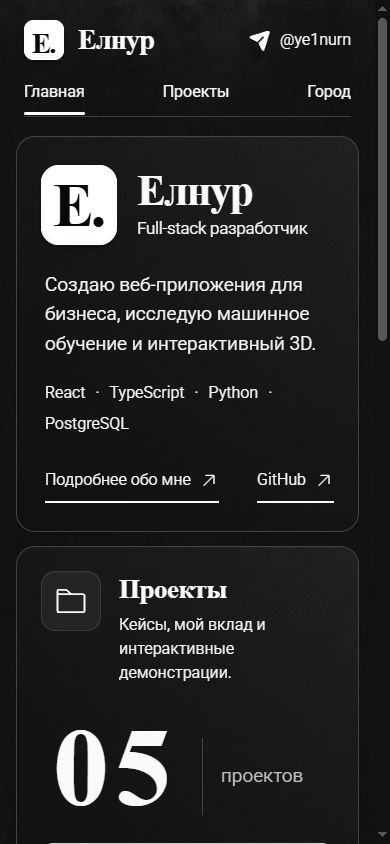
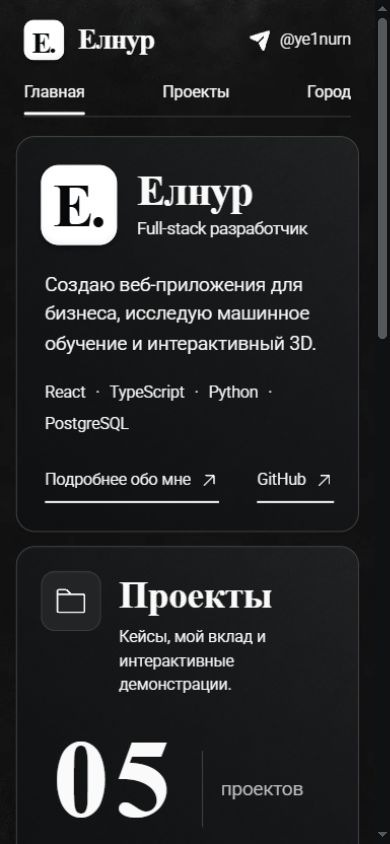
Preserve project heading hierarchy across screen sizes

diff --git a/city-demo/src/portfolio/home.css b/city-demo/src/portfolio/home.css
@@ -83,7 +83,7 @@
 .home-bio{font-size:22px}.home-stack{gap:0 14px;font-size:21px}.home-projects .home-section-heading{gap:24px}.home-projects h2{font-size:46px}
 .home-projects .home-section-heading p{font-size:16px;white-space:normal}.home-projects .home-icon{width:66px;height:66px}
 .home-project-count{margin-left:20px}.home-project-count strong{font-size:144px}.home-project-count span{font-size:21px}
-.home-tool-columns{gap:16px;margin-inline:0}.home-tool-columns>div+div{padding-left:24px}.home-tool-columns p{font-size:18px}.home-section-heading h2{font-size:30px}
+.home-tool-columns{gap:16px;margin-inline:0}.home-tool-columns>div+div{padding-left:24px}.home-tool-columns p{font-size:18px}.home-skills h2,.home-education h2{font-size:30px}
 .home-education ol{margin-left:73px}.home-education li{font-size:18px;padding-left:24px}.home-achievement{padding-inline:25px;gap:24px}
 .home-achievement h2{font-size:46px}.home-achievement p{font-size:16px}.home-achievement div>span{font-size:17px}
 .home-achievement>div{min-width:0}.home-achievement p{white-space:normal}
@@ -100,7 +100,7 @@
 .home-projects{display:grid;grid-template-columns:1fr auto;gap:24px}.home-projects .home-project-count{grid-column:2;grid-row:1/3;margin:0;gap:20px}
 .home-project-link{grid-column:1;font-size:18px!important}.home-projects h2{font-size:42px}.home-projects .home-section-heading{gap:24px;align-items:center}
 .home-projects .home-section-heading p{font-size:16px;white-space:normal}.home-project-count strong{font-size:120px}.home-project-count span{font-size:18px;padding-left:18px}
-.home-section-heading{gap:20px}.home-section-heading h2{font-size:28px}.home-tool-columns{gap:12px;margin-inline:0}.home-tool-columns>div+div{padding-left:12px}
+.home-section-heading{gap:20px}.home-skills h2,.home-education h2{font-size:28px}.home-tool-columns{gap:12px;margin-inline:0}.home-tool-columns>div+div{padding-left:12px}
 .home-tool-columns h3{font-size:16px}.home-tool-columns p{font-size:14px;white-space:normal}.home-education .home-section-heading{gap:20px}
 .home-education ol{margin:18px 0 14px 26px}.home-education li{font-size:18px;padding-left:24px}.home-contact-primary{flex:1}.home-email{font-size:16px!important}
 }
@@ -120,7 +120,7 @@
 .home-links svg{width:20px}.home-projects .home-section-heading{align-items:flex-start;gap:18px}.home-projects h2{font-size:38px}
 .home-projects .home-section-heading p{font-size:16px;line-height:1.5}.home-projects .home-icon{width:60px;height:60px;border-radius:14px}
 .home-project-link{font-size:18px!important;min-height:56px;border-radius:12px;padding-inline:22px!important}
-.home-section-heading{gap:20px}.home-section-heading h2{font-size:27px}.home-icon{width:52px;height:52px;border-radius:12px}
+.home-section-heading{gap:20px}.home-skills h2,.home-education h2{font-size:27px}.home-icon{width:52px;height:52px;border-radius:12px}
 .home-icon svg{width:29px;height:29px}.home-projects .home-icon svg{width:36px;height:36px}.home-tool-columns{margin-top:24px}
 .home-tool-columns h3{font-size:16px}.home-tool-columns p{font-size:15px;line-height:1.75}
 .home-education li{display:grid;grid-template-columns:1fr;gap:3px;font-size:19px;padding-block:8px}
@@ -136,7 +136,7 @@
 }
 @media(max-width:360px){
 .home-card{padding:21px}.home-links{gap:8px}.home-links>*{font-size:14px!important}.home-role{font-size:15px}
-.home-tool-columns h3{font-size:14px}.home-tool-columns p{font-size:13px}.home-contact h2,.home-section-heading h2{font-size:24px}
+.home-tool-columns h3{font-size:14px}.home-tool-columns p{font-size:13px}.home-contact h2,.home-skills h2,.home-education h2{font-size:24px}
 .home-education .home-section-heading{gap:12px}.home-icon{width:44px;height:44px}.home-projects .home-section-heading{gap:14px}
 .home-projects .home-icon{width:48px;height:48px}.home-projects h2{font-size:34px}.home-email{font-size:13px!important}.home-footer{font-size:10px}
 .home-projects .home-project-count{gap:14px;padding-inline:8px}.home-project-count strong{font-size:96px;letter-spacing:2px}.home-project-count span{font-size:16px;padding-left:14px}

diff --git a/city-demo/design-qa.md b/city-demo/design-qa.md
@@ -10,7 +10,8 @@ Implementation: `qa/home-graphite/desktop.jpg`, route `?view=home`, top of page,
 2. **[P2, resolved] Grid and typography.** Earlier 12-column layout made the left cards too wide and the bottom award too large. Three shared tracks now measure 547:245:587 with 14 px horizontal / 16 px vertical gaps. At the reference viewport top rows measure 804.84/586.16 px, 424/248 px high; lower cards measure 546.20/844.80 px, 174 px high. Inter was replaced on home by locally packaged Roboto with Times New Roman display type. Corrected the project CTA to left alignment, separated stack items, restored the footer date and moved the full-resume action into About.
 3. **[P2, resolved] First pass overflow and lighting.** `compare-iteration-1.jpg` / `typography-1.jpg` show the first revised stage. Lowered excessive panel grain/brightness using the generated raster over a neutral base, refined the name/role and numeral metrics, reduced the project subtitle to fit its measured text box. Removed unwanted desktop scrollbar caused by natural card heights.
 4. **[P2, resolved] Responsive widths.** Browser inspection found a count overflow at 320 px, a long education row at 760 px and an unwrapped achievement description at 1024 px. Adjusted the small count, timeline typography and award wrapping. Rechecked these exact widths: no overflowing cards, text, or controls.
-5. Final evidence: `comparison-final.jpg` (reference left, implementation right); focused `comparison-intro.jpg`, `comparison-projects.jpg`, `comparison-details.jpg`. All were opened and inspected after the fixes. `mobile-top.jpg` and `mobile-bottom.jpg` record the 390 × 844 layout.
+5. **[P2, resolved] Responsive heading hierarchy.** A final laptop check exposed a generic section heading rule overriding the Projects title below 1380 px. Scoped the rule to Skills/Education and checked the final title sizes: 46 px at 1254, 42 px at 900, 38 px at 390 and 34 px at 320. All four rendered without overflow. `laptop.jpg` and refreshed `mobile-top.jpg` record the correction. Tests (124/124) and production build were rerun successfully after this change.
+6. Final evidence: `comparison-final.jpg` (reference left, implementation right); focused `comparison-intro.jpg`, `comparison-projects.jpg`, `comparison-details.jpg`. All were opened and inspected after the fixes. `mobile-top.jpg` and `mobile-bottom.jpg` record the 390 × 844 layout.
 
 ## Required fidelity surfaces
 

diff --git a/city-demo/qa/home-graphite/README.md b/city-demo/qa/home-graphite/README.md
@@ -10,7 +10,8 @@ Implementation: `qa/home-graphite/desktop.jpg`, route `?view=home`, top of page,
 2. **[P2, resolved] Grid and typography.** Earlier 12-column layout made the left cards too wide and the bottom award too large. Three shared tracks now measure 547:245:587 with 14 px horizontal / 16 px vertical gaps. At the reference viewport top rows measure 804.84/586.16 px, 424/248 px high; lower cards measure 546.20/844.80 px, 174 px high. Inter was replaced on home by locally packaged Roboto with Times New Roman display type. Corrected the project CTA to left alignment, separated stack items, restored the footer date and moved the full-resume action into About.
 3. **[P2, resolved] First pass overflow and lighting.** `compare-iteration-1.jpg` / `typography-1.jpg` show the first revised stage. Lowered excessive panel grain/brightness using the generated raster over a neutral base, refined the name/role and numeral metrics, reduced the project subtitle to fit its measured text box. Removed unwanted desktop scrollbar caused by natural card heights.
 4. **[P2, resolved] Responsive widths.** Browser inspection found a count overflow at 320 px, a long education row at 760 px and an unwrapped achievement description at 1024 px. Adjusted the small count, timeline typography and award wrapping. Rechecked these exact widths: no overflowing cards, text, or controls.
-5. Final evidence: `comparison-final.jpg` (reference left, implementation right); focused `comparison-intro.jpg`, `comparison-projects.jpg`, `comparison-details.jpg`. All were opened and inspected after the fixes. `mobile-top.jpg` and `mobile-bottom.jpg` record the 390 × 844 layout.
+5. **[P2, resolved] Responsive heading hierarchy.** A final laptop check exposed a generic section heading rule overriding the Projects title below 1380 px. Scoped the rule to Skills/Education and checked the final title sizes: 46 px at 1254, 42 px at 900, 38 px at 390 and 34 px at 320. All four rendered without overflow. `laptop.jpg` and refreshed `mobile-top.jpg` record the correction. Tests (124/124) and production build were rerun successfully after this change.
+6. Final evidence: `comparison-final.jpg` (reference left, implementation right); focused `comparison-intro.jpg`, `comparison-projects.jpg`, `comparison-details.jpg`. All were opened and inspected after the fixes. `mobile-top.jpg` and `mobile-bottom.jpg` record the 390 × 844 layout.
 
 ## Required fidelity surfaces
 
